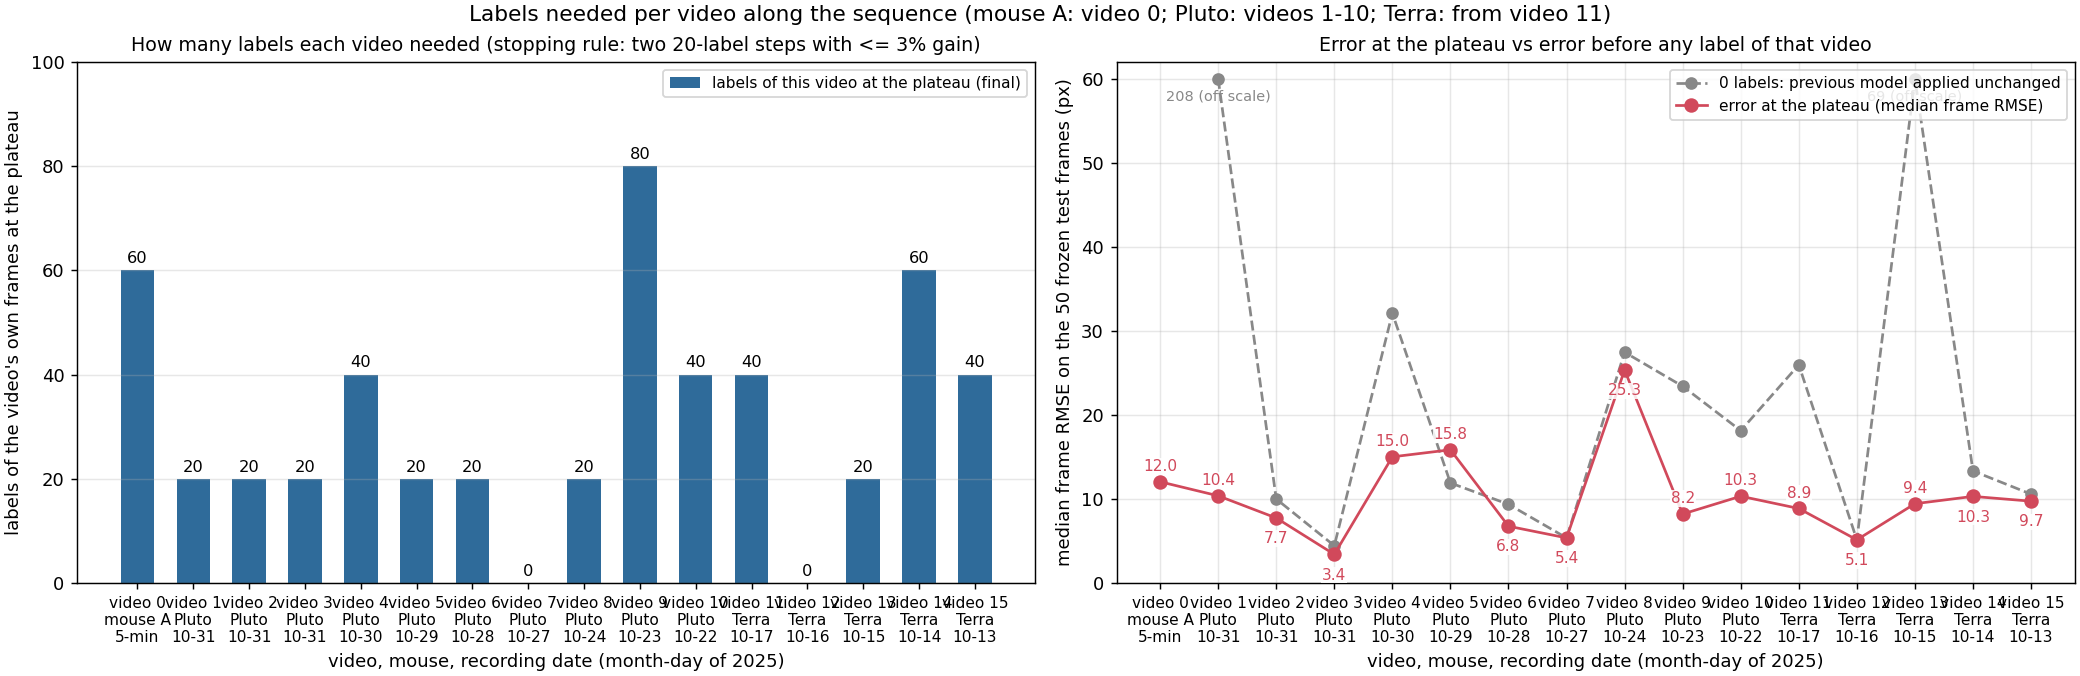
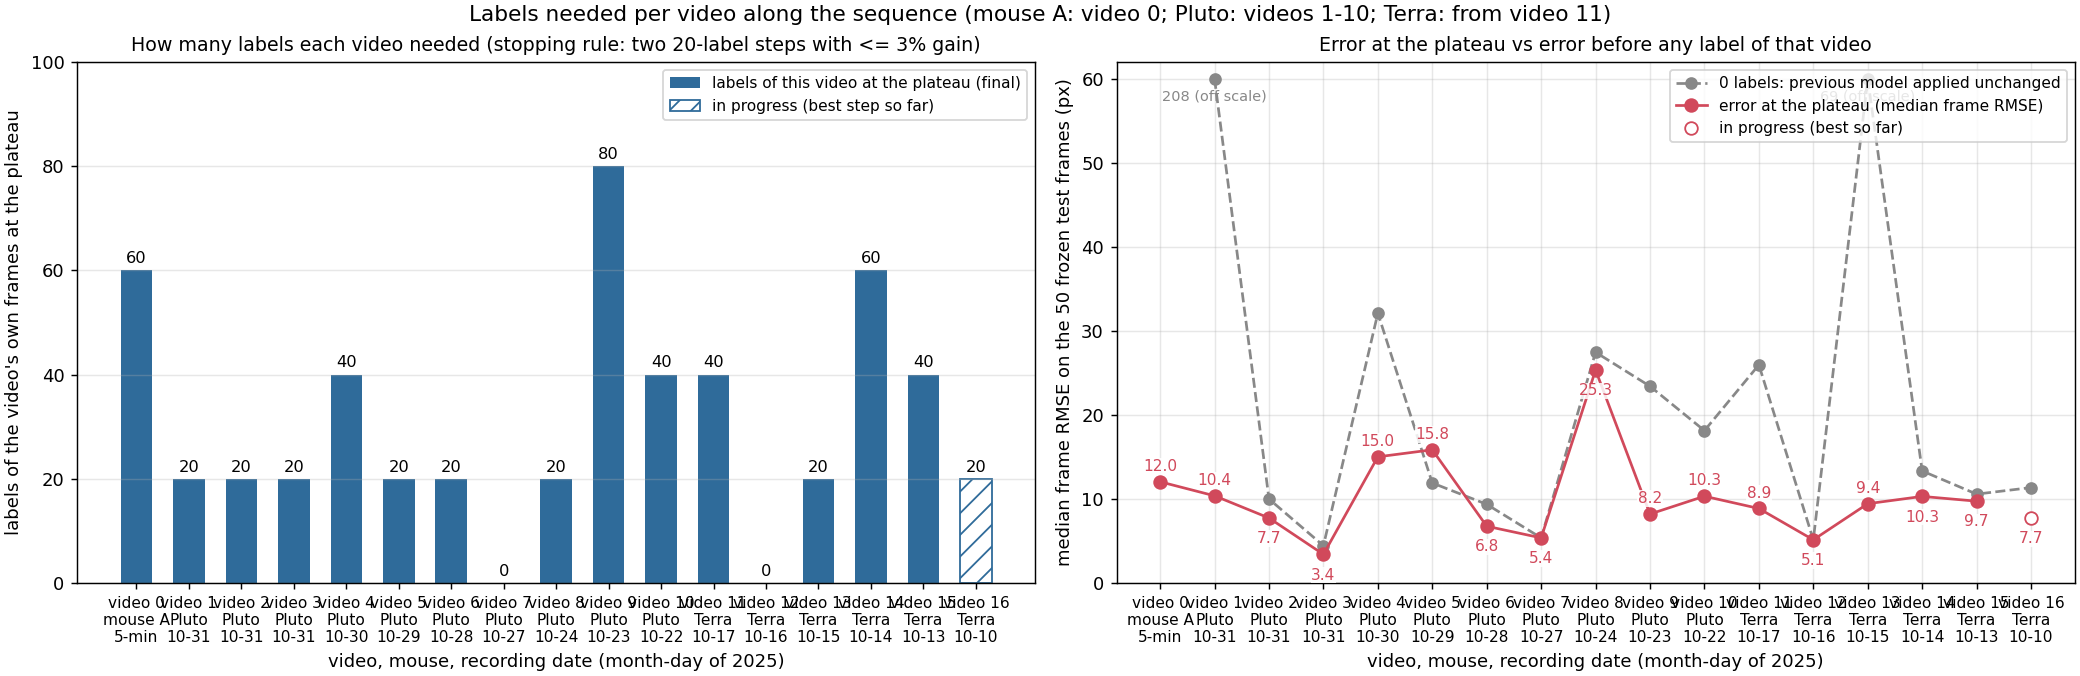
Video 16 step 1: 20 labels = 7.72 px (32% better than the 0-label 11.35, improving step)

diff --git a/README.md b/README.md
@@ -29,7 +29,7 @@ per-frame predictions stay local; git carries code, documentation and audited ag
 | Finished | **video 13** (Terra, 2025-10-15, third video of mouse C): test50 / val20 / batch01 pre-labeled with the video-11 40-label model (1212) and corrected by the labeler (test50: 287 of 400 points moved), test set frozen; 0 labels (model 1212) = 69.13 px (56% of frames > 50 px: the model that fitted video 12 does not fit this day), 20 labels = 9.43 px, 40 labels = 9.44 px, 60 labels = 9.67 px (0% of frames > 50 px from 20 labels on): no step improves on 20 labels, the plateau rule fired at 60; **plateau at 20 labels, 9.43 px** (user decision 2026-10-06), tag `v0.9.15-video13-plateau`; batch01 (20 labels) carried, 600 labels go into video 14. Fewer-labels: 5 labels 10.46 / 16.03 px, 10 labels 11.24 / 10.29 px (first-batch size only, no jump selection afterwards; both above the 20-label 9.43 px). |
 | Finished | **video 14** (Terra, 2025-10-14, fourth video of mouse C): test50 / val20 / batch01 pre-labeled with the video-13 20-label model (1411) and corrected by the labeler (test50: 149 of 400 points moved), test set frozen; 0 labels (model 1411) = 13.33 px (16% of frames > 50 px), 20 labels = 10.83 px, 40 labels = 12.41 px, 60 labels = 10.30 px, 80 labels = 10.45 px, 100 labels = 10.24 px (2% of frames > 50 px from 20 labels on); 80 and 100 stay within 3% of 10.30, the plateau rule fired at 100; **plateau at 60 labels, 10.30 px** (user decision 2026-10-07), tag `v0.9.16-video14-plateau`; batches 1-3 (60 labels) carried, 660 labels go into video 15; batch 6 was selected but not labeled. Fewer-labels: 5 labels 10.93 / 10.22 px, 10 labels 9.82 / 10.06 px (first-batch size only, no jump selection afterwards; medians within 10% of the 20-label 10.83 px, subset 5b with 14% of frames > 50 px). |
 | Finished | **video 15** (Terra, 2025-10-13, fifth video of mouse C): frames extracted model-free; test50 pre-labeled with the video-14 20-label model (1511) before video 14's plateau was known (recorded as a deviation), val20 / batch01 with the plateau model 1513; 0 labels (model 1513) = 10.57 px, 20 labels = 11.42 px, 40 labels = 9.73 px, 60 labels = 9.61 px, 80 labels = 10.24 px (0-2% of frames > 50 px); 60 within 3% of 9.73 and 80 worse, the plateau rule fired at 80; **plateau at 40 labels, 9.73 px** (user decision 2026-10-08), tag `v0.9.17-video15-plateau`; batches 1-2 (40 labels) carried, 700 labels go into video 16; batch 5 selected but not labeled. Fewer-labels: 5 labels 12.55 / 9.82 px, 10 labels 11.09 / 9.31 px (first-batch size only, no jump selection afterwards; three of the four subsets below the 20-label 11.42 px). |
-| In progress | **video 16** (Terra, 2025-10-10): test50 / val20 / batch01 extracted on 2026-10-08 (model-free) and pre-labeled with the video-15 plateau model (1612, 40 labels) and corrected by the labeler on 2026-10-08 (test50: 136 of 400 points moved), test set frozen; 0 labels (model 1612) = 11.35 px (p90 23.1, 0% of frames > 50 px, 76% of keypoints with confidence >= 0.6); step 1 (20 labels) queued. Training set of every step = 700 carried labels of videos 0-15 + this video's labels; shuffles 1711, 1712, ... |
+| In progress | **video 16** (Terra, 2025-10-10): test50 / val20 / batch01 extracted on 2026-10-08 (model-free) and pre-labeled with the video-15 plateau model (1612, 40 labels) and corrected by the labeler on 2026-10-08 (test50: 136 of 400 points moved), test set frozen; 0 labels (model 1612) = 11.35 px (p90 23.1, 0% of frames > 50 px, 76% of keypoints with confidence >= 0.6); 20 labels (shuffle 1711) = 7.72 px (p90 11.5, 2% of frames > 50 px, 96% confidence; 32% better than the 0-label number); batch 2 being selected (2026-10-08 23:45). Training set of every step = 700 carried labels of videos 0-15 + this video's labels; shuffles 1711, 1712, ... |
 | Analysis (2026-10-04) | blink and pupil area on all 12 finished videos (`v2_new_pupil_top_video_scaling/results/blink_and_area/`): four-point area median error 6.6% (three-point 8.3%); closed eye best detected by the mean confidence of the four pupil points (27 of 28 closed frames, 4.1% of open frames flagged; the earlier rule flags 55.7%); area traces still contain tracking jumps not covered by the closure rule. Error and confidence per keypoint (`.../results/keypoint_confidence_error/`): pupil top is the least accurate point (10.9 px median) |
 | Next | Terra units 17-18, one recording day each, newest first |
 
@@ -55,7 +55,7 @@ Labels needed per video (plateau = two consecutive 20-label steps that improve t
 | 13 | Terra (mouse C), 2025-10-15 | 580 | 69.13 / 9.43 / 9.44 / 9.67 px (v2) | 20 labels, 9.4 px (rule fired at 60) |
 | 14 | Terra (mouse C), 2025-10-14 | 600 | 13.33 / 10.83 / 12.41 / 10.30 / 10.45 / 10.24 px (v2) | 60 labels, 10.3 px (rule fired at 100) |
 | 15 | Terra (mouse C), 2025-10-13 | 660 | 10.57 / 11.42 / 9.73 / 9.61 / 10.24 px (v2) | 40 labels, 9.7 px (rule fired at 80) |
-| 16 | Terra (mouse C), 2025-10-10 | 700 | (v2, in progress) | – |
+| 16 | Terra (mouse C), 2025-10-10 | 700 | 11.35 / 7.72 px (v2, in progress) | – |
 
 What the numbers say:
 

diff --git a/v2_new_pupil_top_video_scaling/results/README.md b/v2_new_pupil_top_video_scaling/results/README.md
@@ -28,7 +28,7 @@ snapshot with the best validation mAP after the first learning-rate drop (epochs
 | 13 `13_20251015_Terra_spont_1` | mouse C (Terra), 19.9 min, 2025-10-15 | 580 (video 12 carries none) | convention v2: 69.13 / 9.43 / 9.44 / 9.67 | **20 labels** (rule fired at 60) | 9.43 px |
 | 14 `14_20251014_Terra_spont_1` | mouse C (Terra), 19.9 min, 2025-10-14 | 600 (580 + 20 of video 13) | convention v2: 13.33 / 10.83 / 12.41 / 10.30 / 10.45 / 10.24 | **60 labels** (rule fired at 100) | 10.30 px |
 | 15 `15_20251013_Terra_spont_1` | mouse C (Terra), 19.9 min, 2025-10-13 | 660 (600 + 60 of video 14) | convention v2: 10.57 / 11.42 / 9.73 / 9.61 / 10.24 | **40 labels** (rule fired at 80) | 9.73 px |
-| 16 `16_20251010_Terra_spont_1` | mouse C (Terra), 19.9 min, 2025-10-10 | 700 (660 + 40 of video 15) | convention v2: 11.35 (0 labels) | in progress | – |
+| 16 `16_20251010_Terra_spont_1` | mouse C (Terra), 19.9 min, 2025-10-10 | 700 (660 + 40 of video 15) | convention v2: 11.35 / 7.72 | in progress | – |
 
 `labels_to_plateau.png` / `labels_to_plateau.csv` (2026-09-30): the plateau point of every video in the sequence as one figure - labels needed (left) and the error at the plateau vs the 0-label error (right); `scripts/plot_labels_to_plateau.py`. The csv is the table above in machine-readable form and is updated when a video finishes.
 

diff --git a/v2_new_pupil_top_video_scaling/16_20251010_Terra_spont_1/results/README.md b/v2_new_pupil_top_video_scaling/16_20251010_Terra_spont_1/results/README.md
@@ -12,6 +12,10 @@ videos 7 and 12 contributed none; 700 in total) + this video's labels; shuffles 
 | labels of this video | median | p90 | frames > 50 px | keypoints conf >= 0.6 | pool frames flagged by the jump rule |
 |---|---|---|---|---|---|
 | 0 (video-15 40-label model 1612, applied unchanged) | 11.35 px | 23.1 | 0% | 76% | – |
+| 20 (shuffle 1711) | 7.72 px | 11.5 | 2% | 96% | pending |
 
 The other Terra models give 9.7-14.1 px on this test set (the video-12 20-label model 1311 is the best at 9.70 px, the
 video-15 60-label model 11.52, the video-14 plateau model 12.08; `../results/cross_video_matrix.csv`).
+
+Step 1 (20 labels): 7.72 px, 32% better than the 0-label 11.35 px (2026-10-08 23:43); p90 from 23.1 to 11.5 px, 96% of
+keypoints confident; one test frame above 50 px. Batch 2 is selected from the 20-label model's whole-video prediction.
